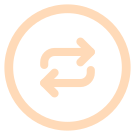
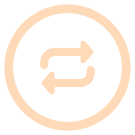
OSD repeat: filled rounded arrowheads, matching shuffle (#761)
Part of #761

diff --git a/client_generic/osd-icons/make_osd_icons.py b/client_generic/osd-icons/make_osd_icons.py
@@ -85,7 +85,7 @@ def icons():
         "osd-next": (ringed("FaStepForward", 35, dx=1), big, big),
         "osd-like": (ringed("FaThumbsUp", 42), big, big),
         "osd-dislike": (ringed("FaThumbsDown", 42), big, big),
-        "osd-repeat": (ringed("LuRepeat", 46), big, big),
+        "osd-repeat": (ringed("Repeat", 46), big, big),
         "osd-shuffle": (ringed("FaRandom", 42), big, big),
         "osd-back10": (plain("Replay10", pad=2), big, big),
         "osd-forward10": (plain("Forward10", pad=2), big, big),

diff --git a/client_generic/osd-icons/README.md b/client_generic/osd-icons/README.md
@@ -33,7 +33,7 @@ frontend's `react-icons` package (v5.5.0) and its `src/icons/` folder.
 | Prefix | Set | License |
 | --- | --- | --- |
 | `Fa*` | Font Awesome Free 5 (step back/forward stretched square; thumbs without the cuff dot) | CC BY 4.0 (icons) |
-| `Lu*` | Lucide | ISC |
+| `Lu*`, `Repeat` | Lucide (`Repeat` is Lucide `repeat` with filled arrowheads sized like `FaRandom`'s) | ISC |
 | `Replay10`, `Forward10` | Google Material Icons `replay_10` / `forward_10`, redrawn with a thinner stroked ring, smaller rounded arrowhead and larger digits | Apache 2.0 |
 | `FlyingBird` | frontend `src/icons/flying-bird.tsx` | ours |
 
